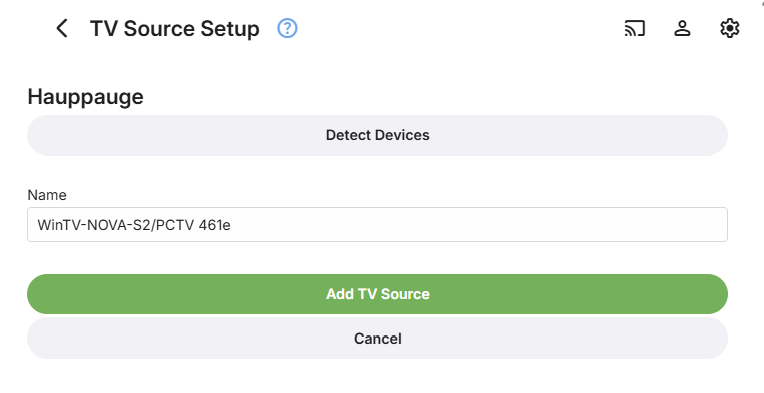
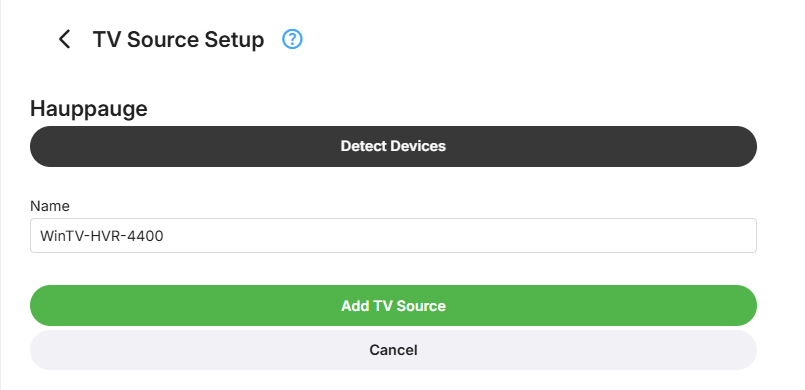
Add Hauppauge image was for different DVR
Need to be consistent with the flow - so correct screenshot to be for same DVR as was showing in the other screenshots

diff --git a/Hauppauge-Setup.md b/Hauppauge-Setup.md
@@ -64,11 +64,11 @@ This will show the following
 
 Click on **Detect Devices**
 
-You will then see all the detected new Live TV tuner devices, select the Hauppauge device you wish to add
+You will then see all the detected new Live TV tuner devices, select the **Hauppauge** device you wish to add
 
 ![](images/server/hauppauge-server3.png)
 
-You will be back to this screeen. Click on **Add TV Source**
+You will now see a screen with the Hauppauge device showing. Click on **Add TV Source**
 
 ![](images/server/hauppauge-server4.png)
 
